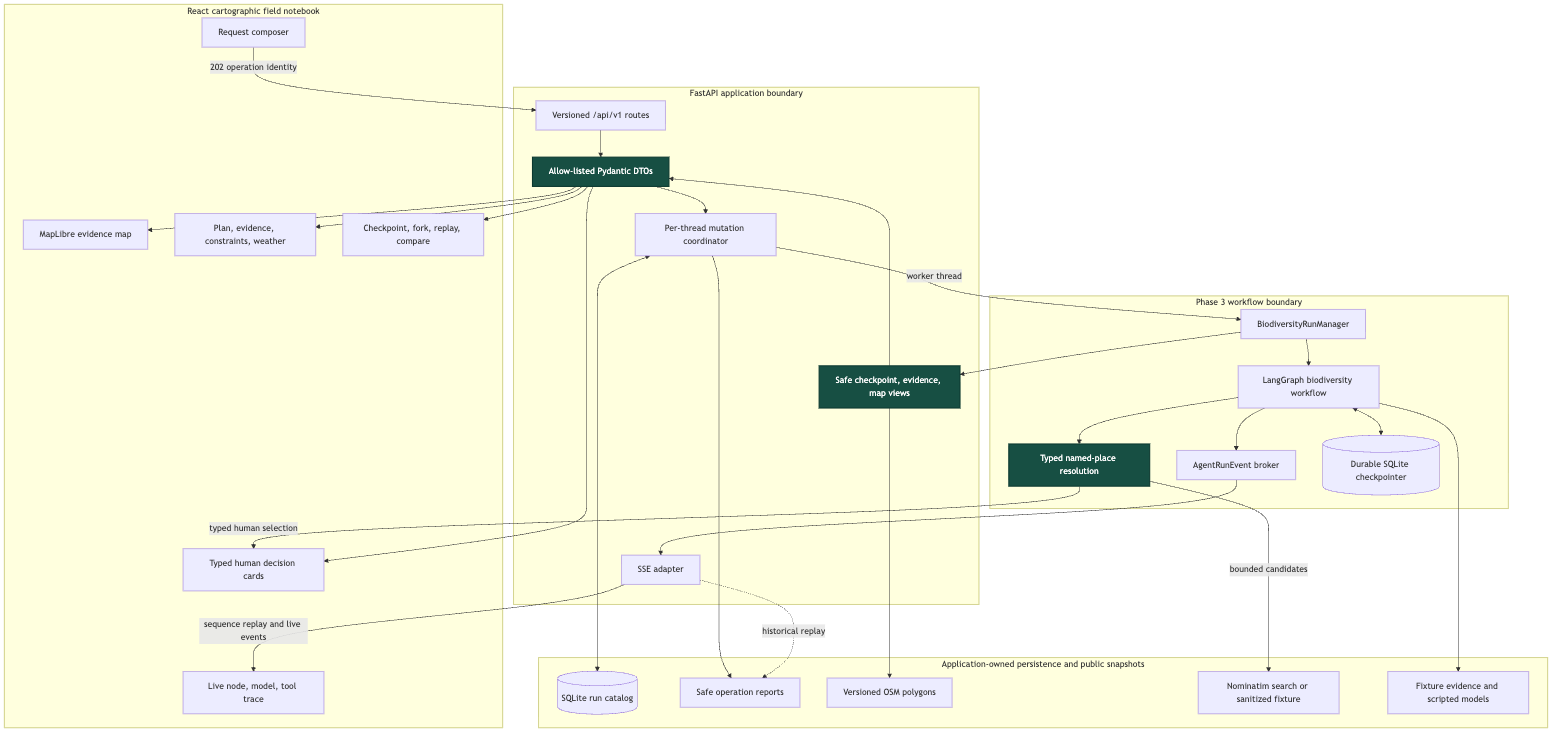
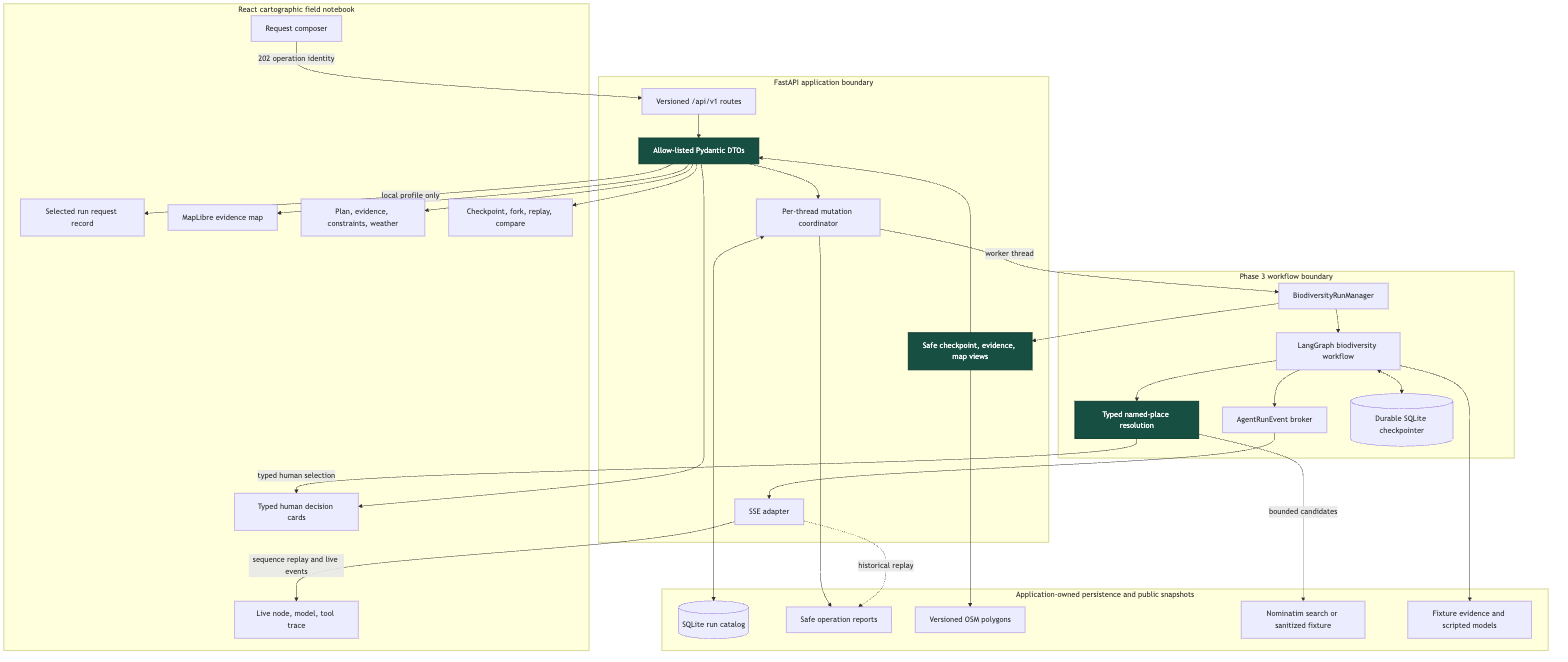
feat: show selected run request history

diff --git a/frontend/src/test/components.test.tsx b/frontend/src/test/components.test.tsx
@@ -8,8 +8,9 @@ import { HitlPanel } from "../components/HitlPanel";
 import { PlanPanel } from "../components/PlanPanel";
 import { RequestComposer } from "../components/RequestComposer";
 import { RunSidebar } from "../components/RunSidebar";
+import { SelectedRunRequest } from "../components/SelectedRunRequest";
 import { TimeTravelPanel } from "../components/TimeTravelPanel";
-import type { FinalPlanView, PendingDecisionView } from "../api/contracts";
+import type { FinalPlanView, PendingDecisionView, RunDetail } from "../api/contracts";
 import { comparisonFixture, evidenceFixture, historyFixture, planFixture } from "./fixtures";
 
 describe("field notebook cards", () => {
@@ -205,6 +206,34 @@ describe("trace and time travel", () => {
 });
 
 describe("loading, empty, error, and accessibility states", () => {
+  it("shows the exact natural-language request for the selected local run", () => {
+    const detail: RunDetail = {
+      run: {
+        thread_id: "expedition-history",
+        status: "completed",
+        data_mode: "fixture",
+        model_mode: "scripted",
+        created_at: "2026-09-03T04:15:31Z",
+        updated_at: "2026-09-03T04:16:41Z",
+      },
+      submitted_request: {
+        text: "Plan a two-hour expedition from Kensal Road on 15 June 2026 to look for Common woodpigeon.",
+        language: "English",
+        visibility: "local_only",
+      },
+      operations: [],
+      branches: [],
+      executions: [],
+      pending_decisions: [],
+      final_plan: null,
+    };
+    render(<SelectedRunRequest detail={detail} />);
+    expect(screen.getByRole("heading", { name: "Natural-language request" })).toBeInTheDocument();
+    expect(screen.getByText(/Plan a two-hour expedition from Kensal Road/)).toBeInTheDocument();
+    expect(screen.getByLabelText("Selected run request metadata")).toHaveTextContent("expedition-history");
+    expect(screen.getByText("fixture/scripted")).toBeInTheDocument();
+  });
+
   it("renders explicit async states", () => {
     const { rerender } = render(<AsyncState kind="empty" title="No expedition selected" detail="Start a run." />);
     expect(screen.getByRole("status")).toHaveTextContent("No expedition selected");

diff --git a/frontend/src/styles.css b/frontend/src/styles.css
@@ -69,6 +69,13 @@ button:disabled { opacity: 0.48; cursor: not-allowed; }
 .api-error span { flex: 1; }
 .api-error button { border: 0; background: transparent; font-size: 1.2rem; cursor: pointer; }
 
+.selected-request-card { margin-bottom: 14px; border: 1px solid rgba(49, 93, 115, 0.34); border-left: 5px solid var(--blue); border-radius: 8px; padding: 13px 16px; background: rgba(240, 241, 234, 0.92); box-shadow: 0 8px 24px rgba(35, 46, 41, 0.06); }
+.selected-request-card h2 { font-size: 1.08rem; }
+.selected-request-card blockquote { margin: 10px 0; border-left: 2px solid #a8b8be; padding: 2px 0 2px 12px; color: #314c58; font-family: "Iowan Old Style", "Palatino Linotype", serif; font-size: 0.92rem; line-height: 1.5; white-space: pre-wrap; }
+.request-record-mode { border: 1px solid #a8b8be; border-radius: 999px; padding: 3px 7px; color: var(--blue); font-family: ui-monospace, SFMono-Regular, Menlo, monospace; font-size: 0.59rem; font-weight: 750; }
+.request-record-meta { display: flex; flex-wrap: wrap; gap: 5px 14px; color: var(--muted); font-size: 0.62rem; }
+.request-record-meta code { color: #3f555d; font-size: 0.61rem; }
+
 .hitl-panel { display: grid; grid-template-columns: 112px 1fr; margin-bottom: 14px; overflow: hidden; border-color: rgba(173, 112, 31, 0.5); border-radius: 10px; background: #f5ead3; }
 .hitl-signal { display: flex; flex-direction: column; justify-content: center; align-items: center; border-right: 1px solid rgba(132, 87, 28, 0.3); color: #f7ecd8; background: #8e5e23; text-transform: uppercase; }
 .hitl-signal span { font-size: 0.62rem; letter-spacing: 0.18em; }

diff --git a/frontend/src/api/schema.d.ts b/frontend/src/api/schema.d.ts
@@ -987,6 +987,7 @@ export interface components {
         /** RunDetail */
         RunDetail: {
             run: components["schemas"]["RunSummary"];
+            submitted_request?: components["schemas"]["SubmittedRequestView"] | null;
             /** Operations */
             operations?: components["schemas"]["OperationView"][];
             /** Branches */
@@ -1270,6 +1271,26 @@ export interface components {
             counters: components["schemas"]["StateCountersView"];
             /** Invalidated Evidence */
             invalidated_evidence?: string[];
+        };
+        /**
+         * SubmittedRequestView
+         * @description Local-only display copy read from the durable graph checkpoint.
+         */
+        SubmittedRequestView: {
+            /** Text */
+            text: string;
+            /**
+             * Language
+             * @default English
+             * @constant
+             */
+            language: "English";
+            /**
+             * Visibility
+             * @default local_only
+             * @constant
+             */
+            visibility: "local_only";
         };
         /** TaxonCandidateView */
         TaxonCandidateView: {

diff --git a/frontend/src/components/SelectedRunRequest.tsx b/frontend/src/components/SelectedRunRequest.tsx
@@ -1,0 +1,31 @@
+import type { RunDetail } from "../api/contracts";
+import { compactDate } from "../utils";
+
+interface Props {
+  detail: RunDetail | null;
+}
+
+export function SelectedRunRequest({ detail }: Props) {
+  const request = detail?.submitted_request;
+  if (!detail || !request) return null;
+
+  return (
+    <section className="selected-request-card" aria-labelledby="selected-request-title">
+      <div className="section-heading compact">
+        <div>
+          <p className="eyebrow">Selected run record</p>
+          <h2 id="selected-request-title">Natural-language request</h2>
+        </div>
+        <span className="request-record-mode">
+          {detail.run.data_mode}/{detail.run.model_mode}
+        </span>
+      </div>
+      <blockquote>{request.text}</blockquote>
+      <div className="request-record-meta" aria-label="Selected run request metadata">
+        <span>Thread <code>{detail.run.thread_id}</code></span>
+        <span>Submitted {compactDate(detail.run.created_at)}</span>
+        <span>{request.language} · local history</span>
+      </div>
+    </section>
+  );
+}

diff --git a/frontend/src/App.tsx b/frontend/src/App.tsx
@@ -25,6 +25,7 @@ import { HitlPanel } from "./components/HitlPanel";
 import { PlanPanel } from "./components/PlanPanel";
 import { RequestComposer } from "./components/RequestComposer";
 import { RunSidebar } from "./components/RunSidebar";
+import { SelectedRunRequest } from "./components/SelectedRunRequest";
 import { StateInspector } from "./components/StateInspector";
 import { StatusHeader } from "./components/StatusHeader";
 import { TimeTravelPanel } from "./components/TimeTravelPanel";
@@ -329,6 +330,7 @@ export default function App() {
           onSubmit={start}
         />
         {error && <div className="api-error" role="alert"><strong>Application notice</strong><span>{error}</span><button onClick={() => setError(null)} aria-label="Dismiss error">×</button></div>}
+        <SelectedRunRequest detail={detail} />
         {decision && <HitlPanel decision={decision} busy={busy} onResume={resume} />}
         <div className="workspace-grid">
           <RunSidebar runs={runs} selectedThread={selectedThread} detail={detail} onSelect={(id) => void selectRun(id)} />

diff --git a/frontend/e2e/expedition.spec.ts b/frontend/e2e/expedition.spec.ts
@@ -26,6 +26,10 @@ async function waitForCompletedPlan(page: Page, threadId: string): Promise<void>
 test("Common woodpigeon strong-evidence happy path", async ({ page }) => {
   const threadId = await startExample(page, "Strong evidence");
   await waitForCompletedPlan(page, threadId);
+  await expect(page.getByRole("heading", { name: "Natural-language request" })).toBeVisible();
+  await expect(page.locator(".selected-request-card blockquote")).toContainText(
+    "Plan a two-hour expedition from SW11 4NJ",
+  );
   await expect(page.getByRole("heading", { name: "Columba palumbus" })).toBeVisible();
   await expect(page.getByText("Evidence gate passed", { exact: true })).toBeVisible();
   await expect(page.locator(".plan-columns > div").first().locator("li")).not.toHaveCount(0);

diff --git a/tests/test_biodiversity_phase4_api.py b/tests/test_biodiversity_phase4_api.py
@@ -114,6 +114,14 @@ def test_app_lifespan_health_and_create_run_return_202(client: TestClient) -> No
     operation = _wait(client, accepted["operation_id"])
     assert operation["status"] == "completed"
     assert operation["current_checkpoint_id"]
+    detail = client.get("/api/v1/runs/health-start").json()
+    assert detail["submitted_request"] == {
+        "text": STRONG_REQUEST,
+        "language": "English",
+        "visibility": "local_only",
+    }
+    catalog_bytes = client.app.state.phase4.settings.catalog_db.read_bytes()
+    assert STRONG_REQUEST.encode() not in catalog_bytes
 
 
 def test_public_demo_enforces_mode_policy_and_hides_api_docs(tmp_path: Path) -> None:
@@ -133,6 +141,11 @@ def test_public_demo_enforces_mode_policy_and_hides_api_docs(tmp_path: Path) -> 
         )
         assert denied.status_code == 403
         assert denied.json()["error"]["code"] == "mode_not_allowed"
+        accepted = _create(client, "public-request-hidden", STRONG_REQUEST)
+        assert _wait(client, accepted["operation_id"])["status"] == "completed"
+        detail = client.get("/api/v1/runs/public-request-hidden").json()
+        assert detail["submitted_request"] is None
+        assert STRONG_REQUEST not in json.dumps(detail)
         assert client.get("/docs").status_code == 404
         assert client.get("/openapi.json").status_code == 404
 
@@ -555,6 +568,33 @@ def test_background_failure_status_and_error_are_sanitised(
     assert "OPENAI_API_KEY" not in serialised
 
 
+def test_failed_run_recovers_request_from_its_durable_checkpoint(
+    client: TestClient,
+    monkeypatch: pytest.MonkeyPatch,
+) -> None:
+    runtime = client.app.state.phase4.runtime
+    original_manager = runtime.manager
+
+    class FailAfterCheckpoint:
+        def __init__(self, manager: object) -> None:
+            self.manager = manager
+
+        def start(self, request: str, *, thread_id: str) -> None:
+            self.manager.start(request, thread_id=thread_id)
+            raise RuntimeError("synthetic post-checkpoint failure")
+
+    def failing_manager(*args, **kwargs):
+        return FailAfterCheckpoint(original_manager(*args, **kwargs))
+
+    monkeypatch.setattr(runtime, "manager", failing_manager)
+    accepted = _create(client, "failed-with-request", STRONG_REQUEST)
+    operation = _wait(client, accepted["operation_id"])
+    assert operation["status"] == "failed"
+    assert operation["current_checkpoint_id"] is None
+    detail = client.get("/api/v1/runs/failed-with-request").json()
+    assert detail["submitted_request"]["text"] == STRONG_REQUEST
+
+
 def test_exact_state_evidence_and_map_views_are_private(client: TestClient) -> None:
     accepted = _create(client, "privacy", STRONG_REQUEST)
     operation = _wait(client, accepted["operation_id"])
@@ -595,12 +635,15 @@ def test_exact_state_evidence_and_map_views_are_private(client: TestClient) -> N
         feature["properties"]["display_id"].startswith("grid-")
         for feature in mapped["aggregate_grid"]
     )
+    detail = client.get("/api/v1/runs/privacy").json()
+    assert detail["submitted_request"]["text"] == STRONG_REQUEST
+    detail_without_local_request = {**detail, "submitted_request": None}
     public_payload = json.dumps(
         {
             "state": state.json(),
             "evidence": evidence.json(),
             "map": mapped,
-            "detail": client.get("/api/v1/runs/privacy").json(),
+            "detail": detail_without_local_request,
             "runs": client.get("/api/v1/runs").json(),
             "history": client.get("/api/v1/runs/privacy/history").json(),
             "operation": client.get(

diff --git a/app/biodiversity/api/services/operations.py b/app/biodiversity/api/services/operations.py
@@ -26,6 +26,7 @@ from app.biodiversity.api.schemas import (
     ResumeRunRequest,
     RunDetail,
     RunSummary,
+    SubmittedRequestView,
 )
 from app.biodiversity.api.services.public_demo import DemoRetention, PublicDemoGuard
 from app.biodiversity.api.services.views import SafeCheckpointViews
@@ -586,6 +587,8 @@ class Phase4Application:
         executions = []
         pending: list[PendingDecisionView] = []
         final_plan: FinalPlanView | None = None
+        submitted_request: SubmittedRequestView | None = None
+        manager: BiodiversityRunManager | None = None
         if current.current_checkpoint_id:
             manager = self.runtime.reader()
             branches = manager.branches(thread_id=thread_id)
@@ -595,9 +598,28 @@ class Phase4Application:
                 thread_id=thread_id,
                 checkpoint_id=current.current_checkpoint_id,
             )
+            if not self.settings.public_demo:
+                request_text = snapshot.values.get("original_request_text")
+                if isinstance(request_text, str) and request_text.strip():
+                    submitted_request = SubmittedRequestView(text=request_text)
             final_plan = self.views.final_plan(snapshot)
+        if not self.settings.public_demo and submitted_request is None:
+            manager = manager or self.runtime.reader()
+            try:
+                request_history = manager.history(thread_id=thread_id)
+                request_snapshot = manager.snapshot(
+                    thread_id=thread_id,
+                    checkpoint_id=request_history[0].checkpoint_id,
+                )
+            except (IndexError, ValueError):
+                pass
+            else:
+                request_text = request_snapshot.values.get("original_request_text")
+                if isinstance(request_text, str) and request_text.strip():
+                    submitted_request = SubmittedRequestView(text=request_text)
         return RunDetail(
             run=summary,
+            submitted_request=submitted_request,
             operations=operations,
             branches=branches,
             executions=executions,

diff --git a/app/biodiversity/api/schemas.py b/app/biodiversity/api/schemas.py
@@ -329,8 +329,17 @@ class FinalPlanView(StrictModel):
     generated_by: str
 
 
+class SubmittedRequestView(StrictModel):
+    """Local-only display copy read from the durable graph checkpoint."""
+
+    text: NonEmptyText = Field(max_length=4000)
+    language: Literal["English"] = "English"
+    visibility: Literal["local_only"] = "local_only"
+
+
 class RunDetail(StrictModel):
     run: RunSummary
+    submitted_request: SubmittedRequestView | None = None
     operations: list[OperationView] = Field(default_factory=list)
     branches: list[RunBranch] = Field(default_factory=list)
     executions: list[RunExecution] = Field(default_factory=list)

diff --git a/docs/phase-4-visual-product.md b/docs/phase-4-visual-product.md
@@ -25,7 +25,7 @@ The backend is split into application routes, DTOs, services, repositories and t
 - Safe operation reports preserve completed event streams for refresh and restart. The in-memory broker is only the live, single-process delivery mechanism.
 - Named-place resolution is a separate repository boundary. Fixture mode loads a versioned, sanitized real Nominatim response; live data mode performs one bounded, rate-limited search only after submission. The graph stores the coordinate internally, while the application DTO exposes only a response-local candidate ID, label, locality, district, postcode and place type.
 
-The React application is decomposed into the request composer, status header, run lineage navigation, MapLibre evidence map, plan/evidence/weather cards, typed HITL decisions, live trace, checkpoint inspector and time-travel comparison. `src/api/schema.d.ts` is generated from the checked-in FastAPI OpenAPI document and the hand-written client references those generated types.
+The React application is decomposed into the request composer, selected-run request record, status header, run lineage navigation, MapLibre evidence map, plan/evidence/weather cards, typed HITL decisions, live trace, checkpoint inspector and time-travel comparison. `src/api/schema.d.ts` is generated from the checked-in FastAPI OpenAPI document and the hand-written client references those generated types.
 
 ## API contract
 
@@ -36,7 +36,7 @@ All routes are under `/api/v1`:
 | GET | `/health` | Product, workflow and default mode status |
 | POST | `/runs` | Queue a new expedition |
 | GET | `/runs` | List durable run summaries |
-| GET | `/runs/{thread_id}` | Read a run, operations, branches, executions, decisions and current safe plan |
+| GET | `/runs/{thread_id}` | Read a run, operations, branches, executions, decisions, current safe plan and the local-only submitted-request record |
 | GET | `/runs/{thread_id}/history` | Read checkpoint, branch and execution identities |
 | GET | `/runs/{thread_id}/checkpoints/{checkpoint_id}/state` | Read the exact Phase 3 `StateView`; requires matching `node_id` and `graph_step` |
 | GET | `/runs/{thread_id}/checkpoints/{checkpoint_id}/evidence` | Read safe counts, quality, provenance, constraints and daily weather |
@@ -92,6 +92,8 @@ The event stream uses each `AgentRunEvent.sequence` as its SSE `id`. A client ma
 Responses use `text/event-stream`, `Cache-Control: no-cache, no-transform` and `X-Accel-Buffering: no`. The frontend reconnects from its last accepted sequence and suppresses duplicates. Closing the browser only closes the subscription.
 
 SSE payloads contain lifecycle identity, timing, node/tool/model labels and safe checkpoint linkage. They contain no prompt, raw state, tool input/output, occurrence coordinate or occurrence identifier.
+
+The local `RunDetail` DTO has one deliberate display-only exception to the general prompt boundary: `submitted_request` contains the original, length-bounded English request for the selected run. It is read from the durable checkpoint, never duplicated in `RunCatalog`, never emitted through SSE or run-list responses, and is always `null` when `BIODIVERSITY_PUBLIC_DEMO=true`. This lets a local user understand historical runs without exposing one unauthenticated public-demo visitor's input to another.
 
 ## DTO and privacy boundary
 

diff --git a/README.md b/README.md
@@ -44,6 +44,8 @@ The shortest reproducible browser flow is entirely fixture/scripted and offline 
 
 The browser receives an operation immediately, streams the existing Phase 3 node/model/tool/checkpoint events, and reads only allow-listed state/evidence/map DTOs. It supports typed HITL resume, replay, constrained fork and deterministic comparison without exposing raw LangGraph state or occurrence-level data. See [the Phase 4 visual product documentation](docs/phase-4-visual-product.md) and [OpenAPI contract](docs/phase-4-openapi.json).
 
+Selecting an item in **Recent runs** also opens a compact **Natural-language request** record above the workspace. The request is read from the durable checkpoint rather than copied into the run catalog. It is available in the local profile only; unauthenticated public-demo mode suppresses it so one visitor cannot read another visitor's submitted text.
+
 Named London places are supported as well as postcodes and explicit map points. The model only extracts wording such as `Kensal Road`; a bounded Nominatim search supplies real OpenStreetMap candidates, deterministic code rejects candidates outside Greater London, and the browser asks the user to choose when a road has several segments. Fixture mode replays a versioned, sanitized real Nominatim response for Kensal Road, so the default demonstration remains offline and reproducible.
 
 ### Local live/live mode
